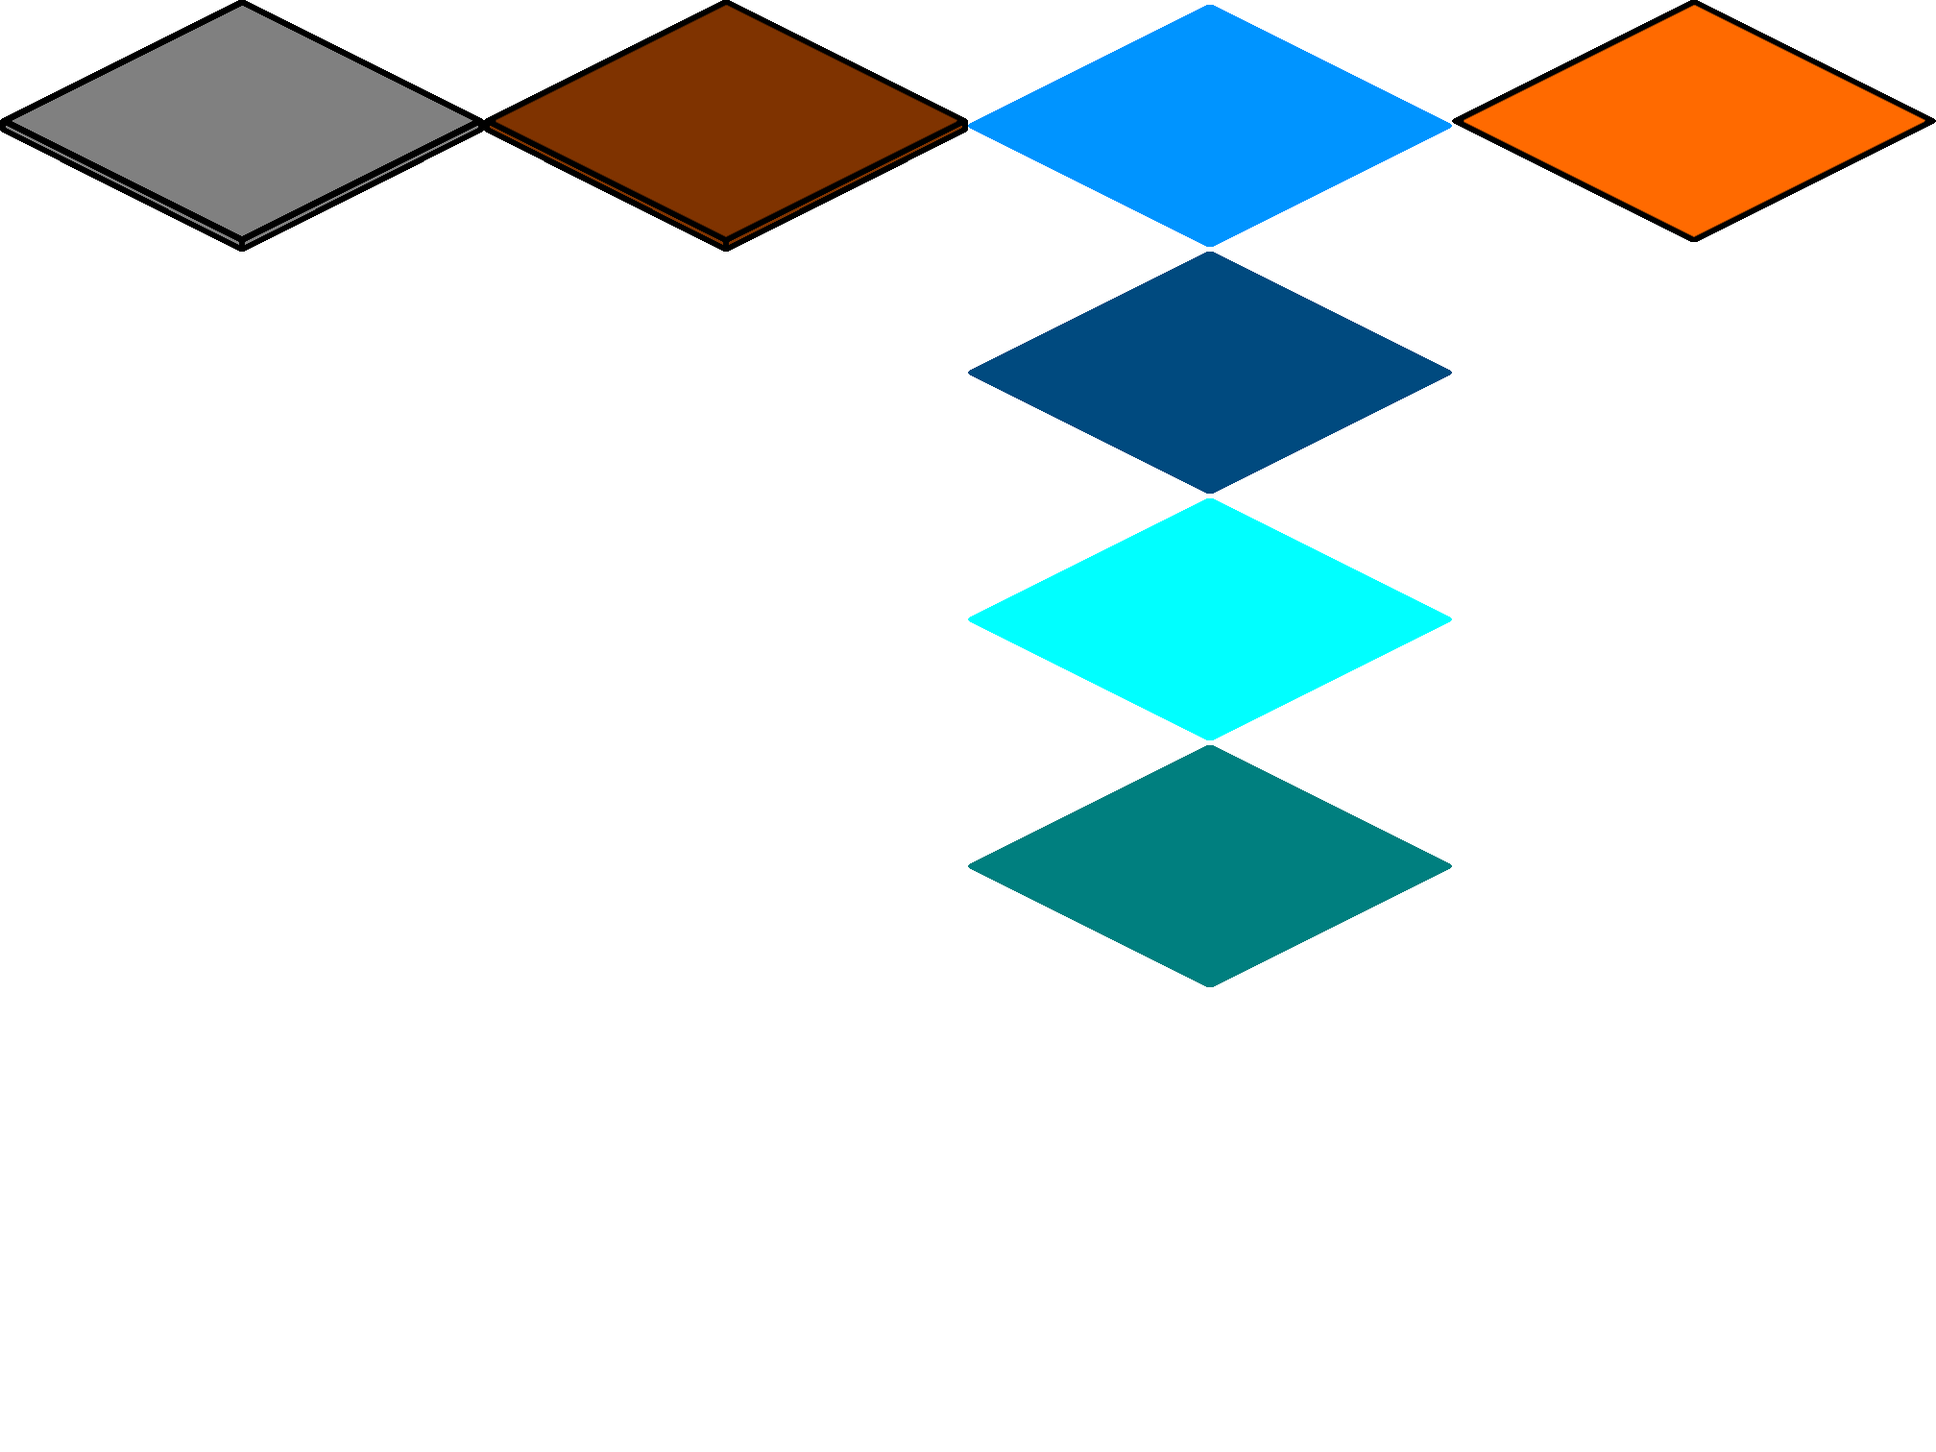
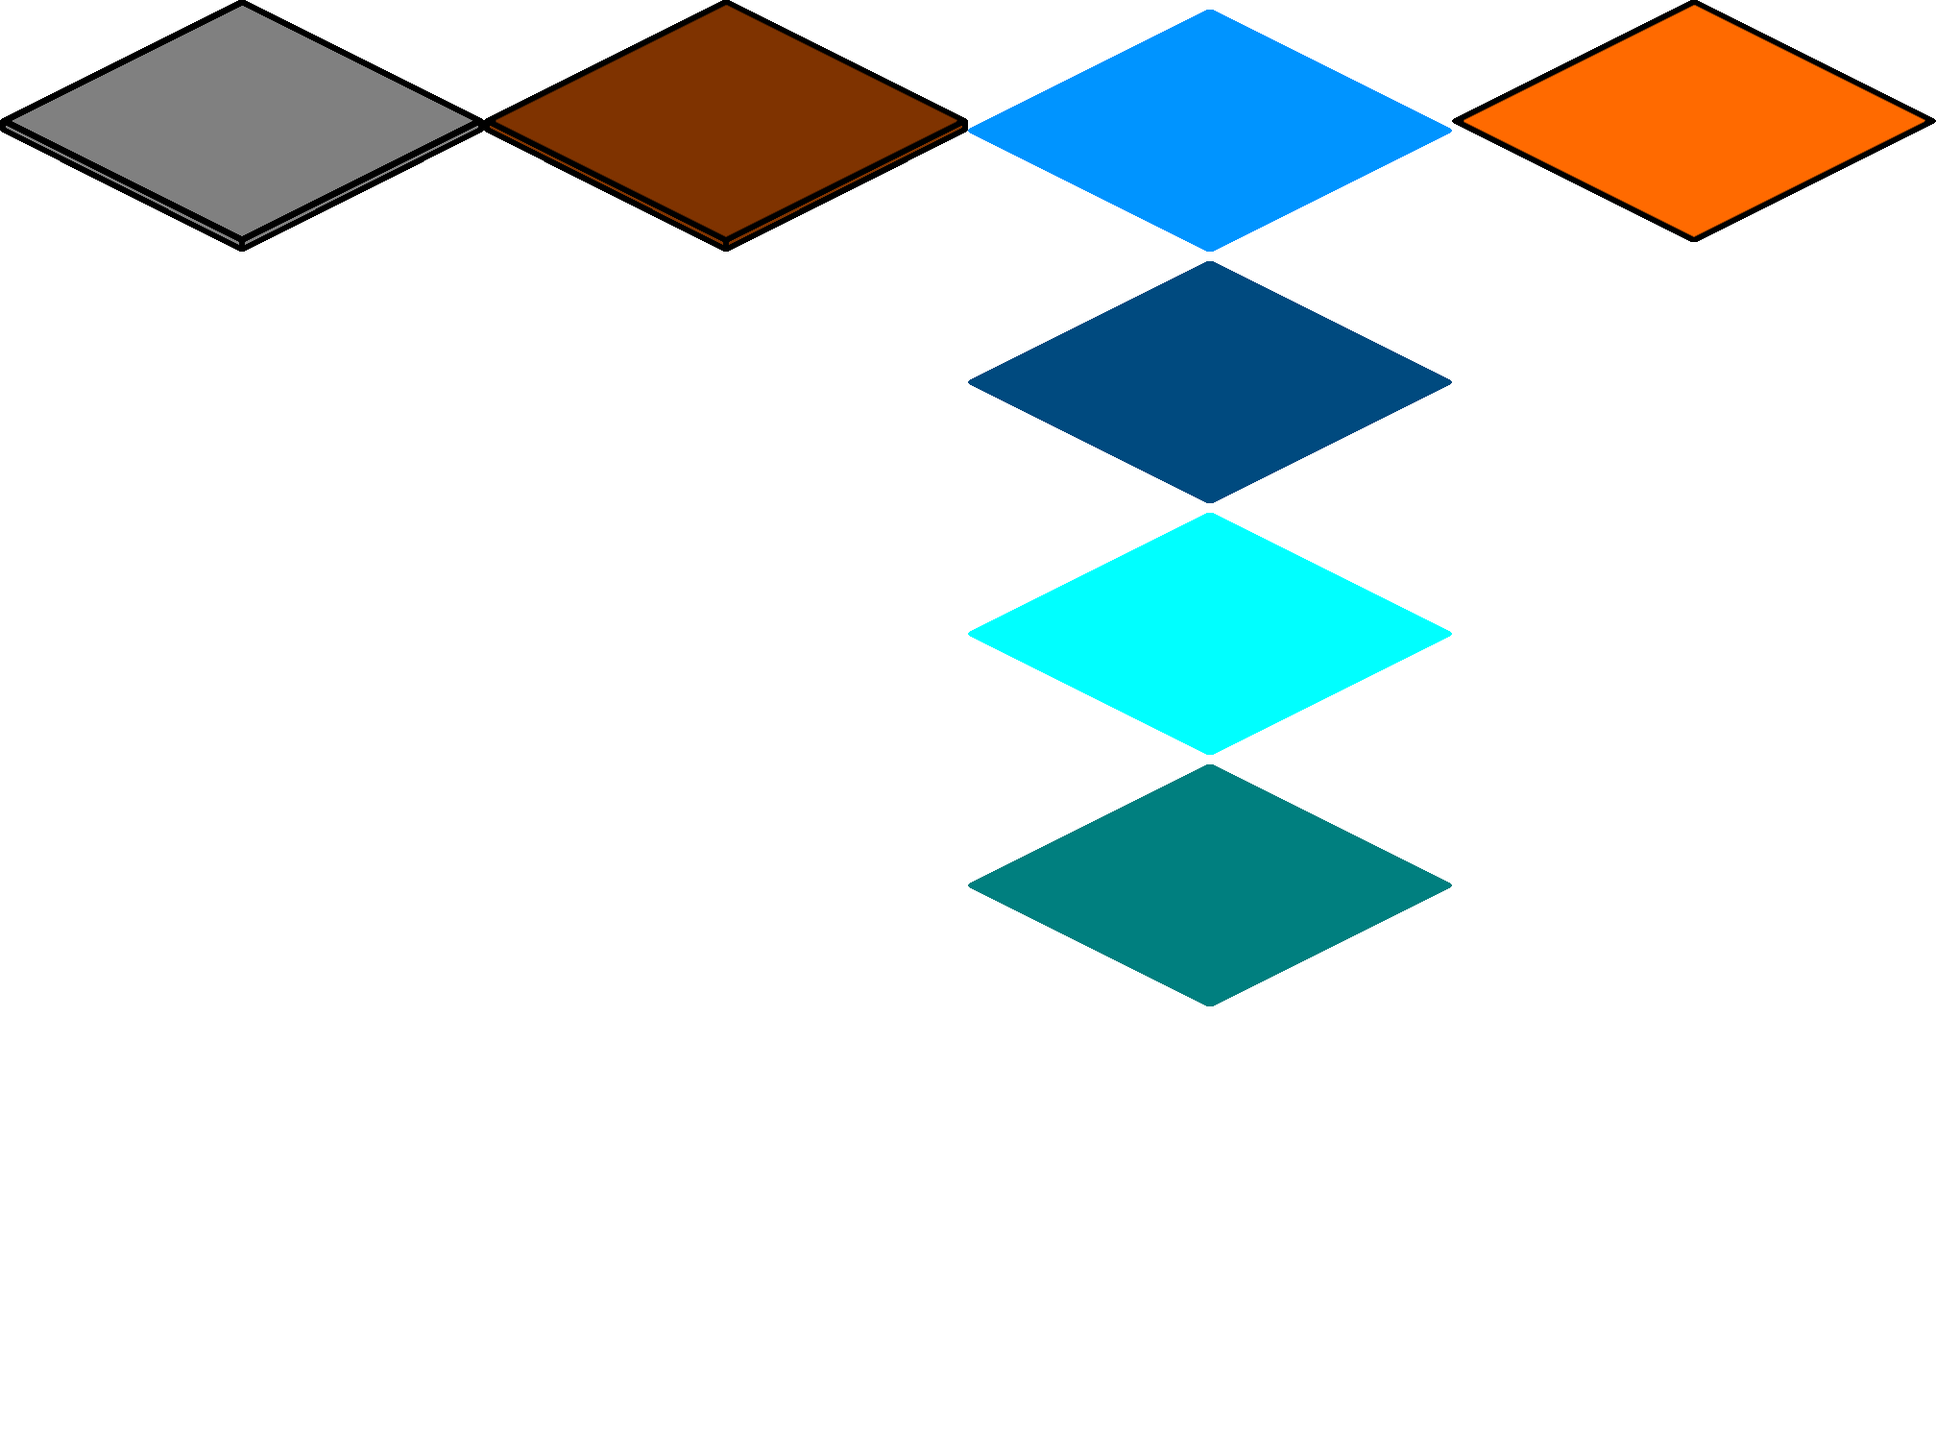
Switch X and Y positions
TODO: fix camera positions and zooming

diff --git a/index.html b/index.html
@@ -23,7 +23,7 @@
     <script>
         var baseTileWidth = 126,
             baseTileHeight = 63,
-            zoomFactor = 2,
+            zoomFactor = 1,
             tileWidth = baseTileWidth * zoomFactor,
             tileHeight = baseTileHeight * zoomFactor,
             cameraX = 0,
@@ -37,7 +37,7 @@
             objectLayerCanvas,
             uiLayerCanvas;
 
-        function TileDefinition (src, srcX, srcY, srcWidth, srcHeight, tw, th, zIndex, isAnimated) {
+        function TileDefinition (src, srcX, srcY, srcWidth, srcHeight, tw, th, yOffsetDir, isAnimated) {
             this.source = src;
             this.tileWidth = tw;
             this.tileHeight = th;
@@ -45,7 +45,7 @@
             this.sourceY = srcY;
             this.sourceWidth = srcWidth;
             this.sourceHeight = srcHeight;
-			this.zIndex = zIndex || 0;
+			this.yOffsetDirection = yOffsetDir || 0;
             this.isAnimated = isAnimated || false;
             this.current = this;
         };
@@ -84,53 +84,37 @@
         var tileDefinitions = {
             default: new TileDefinition(tiles, 0, 0, 504, 262, 504, 252), 
             ground: new TileDefinition(tiles, 504, 0, 504, 262, 504, 252),
-            water: new TileDefinition(tiles, 1008, 0, 504, 257, 504, 252, -0.25, true),
+            water: new TileDefinition(tiles, 1008, 0, 504, 262, 504, 252, 0, true),
             lava: new TileDefinition(tiles, 1512, 0, 504, 252, 504, 252),
             block: new TileDefinition(blocks, 0, 0, 504, 504, 504, 252),
-            rampNorth: new TileDefinition(blocks, 504, 0, 504, 504, 504, 252),
-            rampEast: new TileDefinition(blocks, 504, 504, 504, 504, 504, 252),
-            rampSouth: new TileDefinition(blocks, 504, 1008, 504, 504, 504, 252),
-            rampWest: new TileDefinition(blocks, 504, 1512, 504, 504, 504, 252),
+            rampEast: new TileDefinition(blocks, 504, 0, 504, 504, 504, 252),
+            rampSouth: new TileDefinition(blocks, 504, 504, 504, 504, 504, 252),
+            rampWest: new TileDefinition(blocks, 504, 1008, 504, 504, 504, 252),
+            rampNorth: new TileDefinition(blocks, 504, 1512, 504, 504, 504, 252),
         };
 
         var groundLayer = [
-            [null, null, null, null, null, null, null, null, null],
-            [null, null, null, null, null, null, null, null, null],
-            [null, null, tileDefinitions.ground, tileDefinitions.water, tileDefinitions.ground, tileDefinitions.water, tileDefinitions.ground, null, null],
-            [null, null, tileDefinitions.ground, tileDefinitions.water, tileDefinitions.ground, tileDefinitions.water, tileDefinitions.ground, null, null],
-            [null, null, tileDefinitions.ground, tileDefinitions.water, tileDefinitions.ground, tileDefinitions.water, tileDefinitions.ground, null, null],
-            [null, null, tileDefinitions.ground, tileDefinitions.water, tileDefinitions.ground, tileDefinitions.water, tileDefinitions.ground, null, null],
-            [null, null, tileDefinitions.ground, tileDefinitions.water, tileDefinitions.ground, tileDefinitions.water, tileDefinitions.ground, null, null],
-            [null, null, tileDefinitions.ground, tileDefinitions.water, tileDefinitions.ground, tileDefinitions.water, tileDefinitions.ground, null, null],
-            [null, null, tileDefinitions.ground, tileDefinitions.water, tileDefinitions.ground, tileDefinitions.water, tileDefinitions.ground, null, null],
-            [null, null, tileDefinitions.ground, tileDefinitions.water, tileDefinitions.ground, tileDefinitions.water, tileDefinitions.ground, null, null],
-            [null, null, tileDefinitions.ground, tileDefinitions.ground, tileDefinitions.ground, tileDefinitions.ground, tileDefinitions.ground, null, null],
-            [null, null, null, tileDefinitions.ground, tileDefinitions.ground, tileDefinitions.ground, null, null, null],
-            [null, null, null, tileDefinitions.ground, tileDefinitions.ground, tileDefinitions.ground, null, null, null],
-            [null, null, null, tileDefinitions.ground, tileDefinitions.ground, tileDefinitions.ground, null, null, null],
-            [null, null, null, null, tileDefinitions.ground, null, null, null, null],
-            [null, null, null, null, null, null, null, null, null],
-            [null, null, null, null, null, null, null, null, null],
+            [null, null, null, null, null, null, null, null, null, null, null, null, null, null, null, null, null],
+            [null, null, null, null, null, null, null, null, null, null, null, null, null, null, null, null, null],
+            [null, null, tileDefinitions.ground, tileDefinitions.ground, tileDefinitions.ground, tileDefinitions.ground, tileDefinitions.ground, tileDefinitions.ground, tileDefinitions.ground, tileDefinitions.ground, tileDefinitions.ground, null, null, null, null, null, null],
+            [null, null, tileDefinitions.water, tileDefinitions.water, tileDefinitions.water, tileDefinitions.water, tileDefinitions.water, tileDefinitions.water, tileDefinitions.water, tileDefinitions.water, tileDefinitions.ground, tileDefinitions.ground, tileDefinitions.ground, tileDefinitions.ground, null, null, null],
+            [null, null, tileDefinitions.ground, tileDefinitions.ground, tileDefinitions.ground, tileDefinitions.ground, tileDefinitions.ground, tileDefinitions.ground, tileDefinitions.ground, tileDefinitions.ground, tileDefinitions.ground, tileDefinitions.ground, tileDefinitions.ground, tileDefinitions.ground, tileDefinitions.ground, null, null],
+            [null, null, tileDefinitions.water, tileDefinitions.water, tileDefinitions.water, tileDefinitions.water, tileDefinitions.water, tileDefinitions.water, tileDefinitions.water, tileDefinitions.water, tileDefinitions.ground, tileDefinitions.ground, tileDefinitions.ground, tileDefinitions.ground, null, null, null],
+            [null, null, tileDefinitions.ground, tileDefinitions.ground, tileDefinitions.ground, tileDefinitions.ground, tileDefinitions.ground, tileDefinitions.ground, tileDefinitions.ground, tileDefinitions.ground, tileDefinitions.ground, null, null, null, null, null, null],
+            [null, null, null, null, null, null, null, null, null, null, null, null, null, null, null, null, null],
+            [null, null, null, null, null, null, null, null, null, null, null, null, null, null, null, null, null],
         ];
 
         var objectLayer = [
-            [tileDefinitions.block, tileDefinitions.block, tileDefinitions.block, tileDefinitions.block, tileDefinitions.block, tileDefinitions.block, tileDefinitions.block, tileDefinitions.block, tileDefinitions.block],
-            [tileDefinitions.block, tileDefinitions.block, tileDefinitions.rampNorth, tileDefinitions.rampNorth, tileDefinitions.rampNorth, tileDefinitions.rampNorth, tileDefinitions.rampNorth, tileDefinitions.block, tileDefinitions.block],
-            [tileDefinitions.block, tileDefinitions.rampWest, null, null, null, null, null, tileDefinitions.rampEast, tileDefinitions.block],
-            [tileDefinitions.block, tileDefinitions.rampWest, null, null, null, null, null, tileDefinitions.rampEast, tileDefinitions.block],
-            [tileDefinitions.block, tileDefinitions.rampWest, null, null, null, null, null, tileDefinitions.rampEast, tileDefinitions.block],
-            [tileDefinitions.block, tileDefinitions.rampWest, null, null, null, null, null, tileDefinitions.rampEast, tileDefinitions.block],
-            [tileDefinitions.block, tileDefinitions.rampWest, null, null, null, null, null, tileDefinitions.rampEast, tileDefinitions.block],
-            [tileDefinitions.block, tileDefinitions.rampWest, null, null, null, null, null, tileDefinitions.rampEast, tileDefinitions.block],
-            [tileDefinitions.block, tileDefinitions.rampWest, null, null, null, null, null, tileDefinitions.rampEast, tileDefinitions.block],
-            [tileDefinitions.block, tileDefinitions.rampWest, null, null, null, null, null, tileDefinitions.rampEast, tileDefinitions.block],
-            [tileDefinitions.block, tileDefinitions.rampWest, null, null, null, null, null, tileDefinitions.rampEast, tileDefinitions.block],
-            [tileDefinitions.block, tileDefinitions.block, tileDefinitions.rampWest, null, null, null, tileDefinitions.rampEast, tileDefinitions.block, tileDefinitions.block],
-            [tileDefinitions.block, tileDefinitions.block, tileDefinitions.rampWest, null, null, null, tileDefinitions.rampEast, tileDefinitions.block, tileDefinitions.block],
-            [tileDefinitions.block, tileDefinitions.block, tileDefinitions.rampWest, null, null, null, tileDefinitions.rampEast, tileDefinitions.block, tileDefinitions.block],
-            [tileDefinitions.block, tileDefinitions.block, tileDefinitions.block, tileDefinitions.rampWest,  null, tileDefinitions.rampEast, tileDefinitions.block, tileDefinitions.block, tileDefinitions.block],
-            [tileDefinitions.block, tileDefinitions.block, tileDefinitions.block, tileDefinitions.block, tileDefinitions.rampSouth, tileDefinitions.block, tileDefinitions.block, tileDefinitions.block, tileDefinitions.block],
-            [tileDefinitions.block, tileDefinitions.block, tileDefinitions.block, tileDefinitions.block, tileDefinitions.block, tileDefinitions.block, tileDefinitions.block, tileDefinitions.block, tileDefinitions.block],
+            [tileDefinitions.block, tileDefinitions.block, tileDefinitions.block, tileDefinitions.block, tileDefinitions.block, tileDefinitions.block, tileDefinitions.block, tileDefinitions.block, tileDefinitions.block, tileDefinitions.block, tileDefinitions.block, tileDefinitions.block, tileDefinitions.block, null, null, null, null],
+            [tileDefinitions.block, tileDefinitions.block, tileDefinitions.rampSouth, tileDefinitions.rampSouth, tileDefinitions.rampSouth, tileDefinitions.rampSouth, tileDefinitions.rampSouth, tileDefinitions.rampSouth, tileDefinitions.rampSouth, tileDefinitions.rampSouth, tileDefinitions.rampSouth, tileDefinitions.block, tileDefinitions.block, tileDefinitions.block, tileDefinitions.block, tileDefinitions.block, null],
+            [tileDefinitions.block, tileDefinitions.rampEast, null, null, null, null, null, null, null, null, null, tileDefinitions.rampSouth, tileDefinitions.rampSouth, tileDefinitions.rampSouth, tileDefinitions.block, tileDefinitions.block, tileDefinitions.block],
+            [tileDefinitions.block, tileDefinitions.rampEast, null, null, null, null, null, null, null, null, null, null, null, null, tileDefinitions.rampSouth, tileDefinitions.block, tileDefinitions.block, tileDefinitions.block],
+            [tileDefinitions.block, tileDefinitions.rampEast, null, null, null, null, null, null, null, null, null, null, null, null, null, tileDefinitions.rampWest, tileDefinitions.block],
+            [tileDefinitions.block, tileDefinitions.rampEast, null, null, null, null, null, null, null, null, null, null, null, null, tileDefinitions.rampNorth, tileDefinitions.block, tileDefinitions.block],
+            [tileDefinitions.block, tileDefinitions.rampEast, null, null, null, null, null, null, null, null, null, tileDefinitions.rampNorth, tileDefinitions.rampNorth, tileDefinitions.rampNorth, tileDefinitions.block, tileDefinitions.block, tileDefinitions.block],
+            [tileDefinitions.block, tileDefinitions.block, tileDefinitions.rampNorth, tileDefinitions.rampNorth, tileDefinitions.rampNorth, tileDefinitions.rampNorth, tileDefinitions.rampNorth, tileDefinitions.rampNorth, tileDefinitions.rampNorth, tileDefinitions.rampNorth, tileDefinitions.rampNorth, tileDefinitions.block, tileDefinitions.block, tileDefinitions.block, tileDefinitions.block, tileDefinitions.block, null],
+            [tileDefinitions.block, tileDefinitions.block, tileDefinitions.block, tileDefinitions.block, tileDefinitions.block, tileDefinitions.block, tileDefinitions.block, tileDefinitions.block, tileDefinitions.block, tileDefinitions.block, tileDefinitions.block, tileDefinitions.block, tileDefinitions.block, null, null, null, null],
         ];
 
         window.addEventListener("load", function() {
@@ -146,8 +130,8 @@
             uiLayerCanvas.width = window.innerWidth;
             uiLayerCanvas.height = window.innerHeight;
 
-            var cameraPos = translateXY(groundLayer[0].length / 2, groundLayer.length / 2);
-            cameraX -= cameraPos.x;
+            var cameraPos = translateXY(groundLayer.length / 2, groundLayer[0].length / 3);
+            cameraX += cameraPos.x;
             cameraY -= cameraPos.y;
 
             window.addEventListener("resize", function() {
@@ -276,7 +260,7 @@
                     if (waterAnimationIndex >= 4) {
                         waterAnimationIndex = 0;
                     }
-                    tileDefinitions.water.current = new TileDefinition(tiles, 1008, waterAnimationIndex * 257, 504, 257, 504, 252, -0.25);
+                    tileDefinitions.water.current = new TileDefinition(tiles, 1008, waterAnimationIndex * 262, 504, 262, 504, 252, -1);
                 }
 
                 requestAnimationFrame(draw);
@@ -285,16 +269,17 @@
 
         function translateXY(x, y) {
             return {
-                x: (((tileWidth - 1) / 2) * x) + (((tileWidth - 1) / 2) * y) + 0.5,
-                y: -(((tileHeight - 1) / 2) * x) + (((tileHeight - 1) / 2) * y) + 0.5
+                x: -(((tileWidth - 1) / 2) * y) + (((tileWidth - 1) / 2) * x) + 0.5,
+                y: (((tileHeight - 1) / 2) * y) + (((tileHeight - 1) / 2) * x) + 0.5
             };
         }
 
         function translateOffsetXY(x, y) {
-            var offsetX = cameraX + groundLayerCanvas.width / 2,
-                offsetY = cameraY + groundLayerCanvas.height / 2,
-                tx = offsetX + (((tileWidth - 1) / 2) * x) + (((tileWidth - 1) / 2) * y) + 0.5,
-                ty = offsetY - (((tileHeight - 1) / 2) * x) + (((tileHeight - 1) / 2) * y) + 0.5;
+            var offsetX = cameraX + (window.innerWidth / 2),
+                offsetY = cameraY + (window.innerHeight / 2);
+
+            var tx = offsetX - (((tileWidth - 1) / 2) * y) + (((tileWidth - 1) / 2) * x) + 0.5,
+                ty = offsetY + (((tileHeight - 1) / 2) * y) + (((tileHeight - 1) / 2) * x) + 0.5;
 
             return { x: tx, y: ty };
         }
@@ -313,7 +298,7 @@
             var height = groundLayer.length;
 
             for (var y = 0; y < height; y++) {
-                for (var x = width - 1; x >= 0; x--) {
+                for (var x = 0; x < width; x++) {
                     var absPosition = translateOffsetXY(x, y);
                     if (absPosition.x < -tileWidth
                         || absPosition.y < -tileHeight
@@ -331,12 +316,12 @@
                     if (tile.isAnimated) {
                         tile = tile.current;
                     }
-					
-					var zOffsetY = 0;
-					if (tile.zIndex !== 0) {
-						zOffsetY = tile.zIndex * (tileHeight / 8);
-					}
-
+                    
+                    var yOffset = 0;
+                    if (tile.yOffsetDirection > 0) {
+                        yOffset = ((tile.sourceHeight * multiplierY) - tileHeight);
+                    }
+                    
                     groundLayerContext.drawImage(
                         tiles,
                         tile.sourceX,
@@ -344,7 +329,7 @@
                         tile.sourceWidth,
                         tile.sourceHeight,
                         absPosition.x - (tileWidth / 2),
-                        absPosition.y - (tileHeight / 2) - zOffsetY,
+                        absPosition.y - (tileHeight / 2) - yOffset,
                         tile.sourceWidth * multiplierX,
                         tile.sourceHeight * multiplierY);
 
@@ -365,7 +350,7 @@
                     }
 
                     if (posLabelsEnabled) {
-                        var debugText = x + "," + y;
+                        var debugText = x + "," + y +" ("+ Math.round(absPosition.x) +","+ Math.round(absPosition.y) +")";
                         var color = "white";
                         if (y === 0) {
                             color = "red";
@@ -379,13 +364,28 @@
                     }
                 }
 
+                uiLayerContext.beginPath();
+                uiLayerContext.strokeStyle = "red";
+                uiLayerContext.lineWidth = 10;
+
                 if (edgeScrollingEnabled) {
-                    uiLayerContext.beginPath();
-                    uiLayerContext.strokeStyle = "red";
-                    uiLayerContext.lineWidth = 10;
-                    uiLayerContext.rect(0, 0, groundLayerCanvas.width, groundLayerCanvas.height);
+                    uiLayerContext.rect(
+                        uiLayerContext.lineWidth / 2,
+                        uiLayerContext.lineWidth / 2,
+                        groundLayerCanvas.width - (uiLayerContext.lineWidth),
+                        groundLayerCanvas.height - (uiLayerContext.lineWidth));
                     uiLayerContext.stroke();
                 }
+
+                uiLayerContext.lineWidth = 5;
+
+                uiLayerContext.moveTo(window.innerWidth / 2, 0);
+                uiLayerContext.lineTo(window.innerWidth / 2, window.innerHeight);
+                uiLayerContext.stroke();
+
+                uiLayerContext.moveTo(0, window.innerHeight / 2);
+                uiLayerContext.lineTo(window.innerWidth , window.innerHeight / 2);
+                uiLayerContext.stroke();
             }
         }
     </script>
